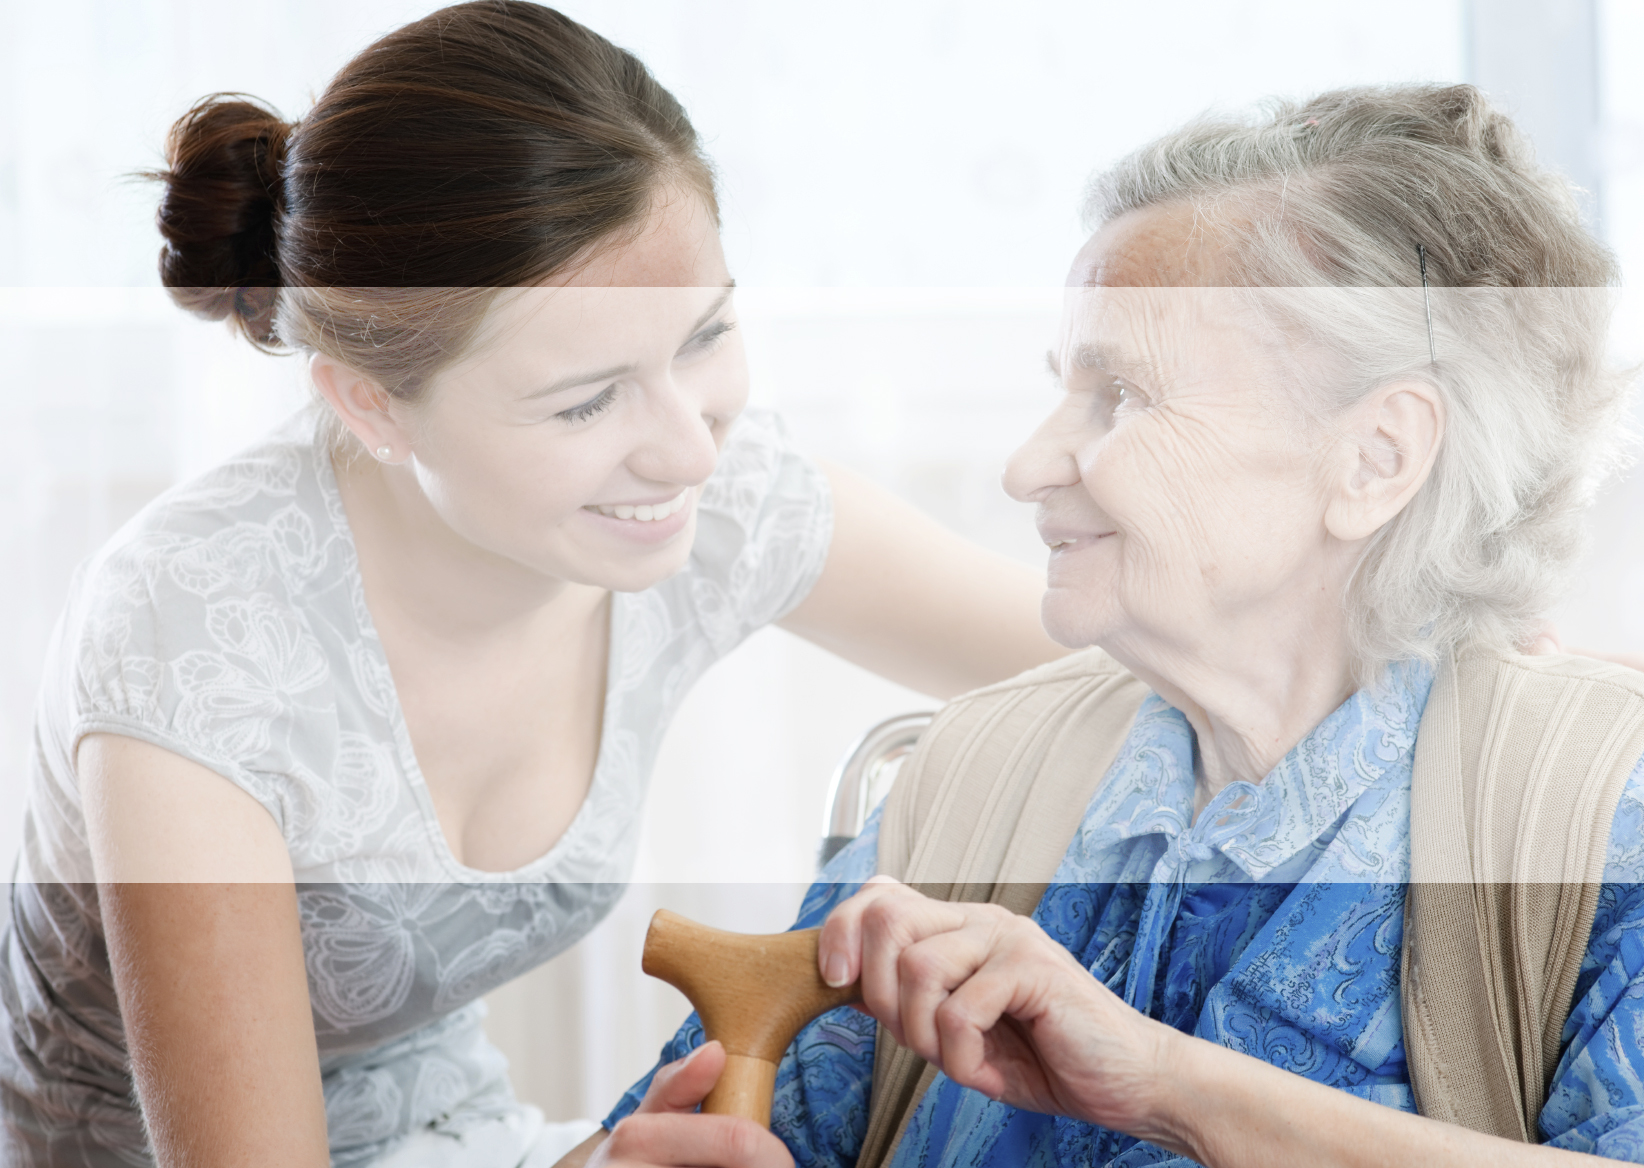
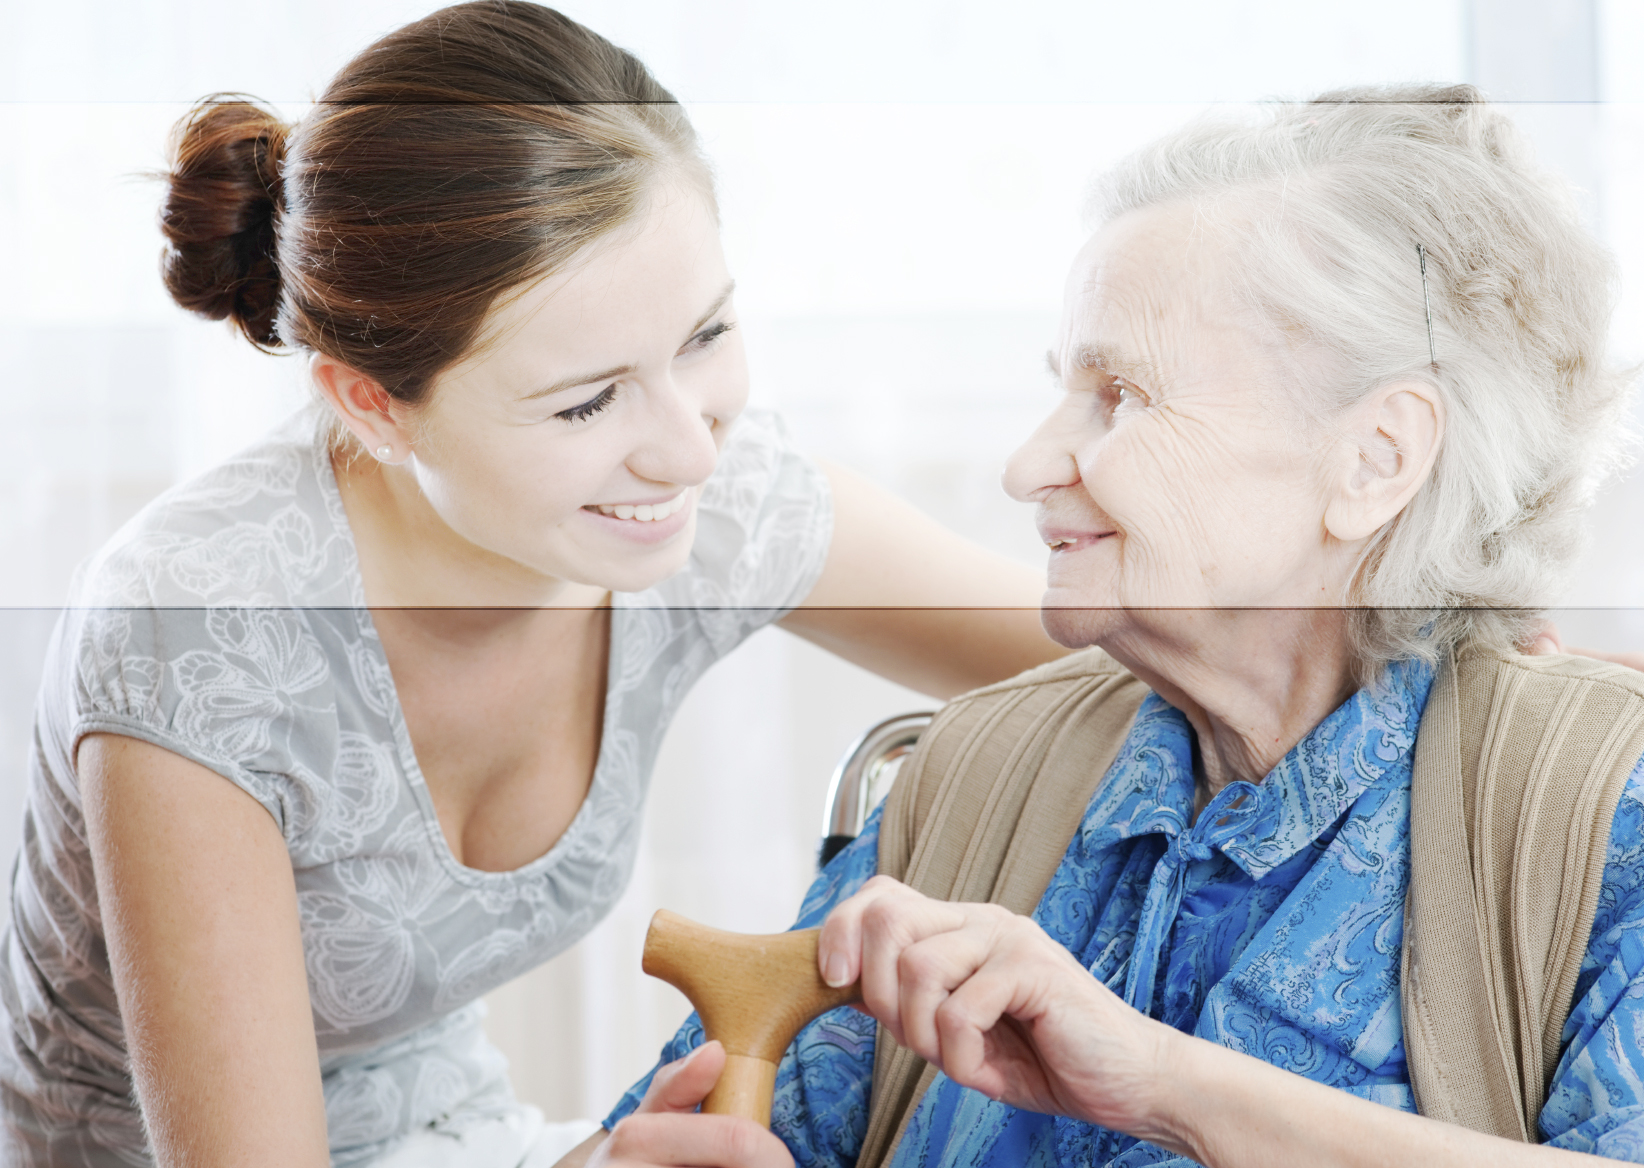
Revamped welcome page.

diff --git a/app/assets/stylesheets/application.css b/app/assets/stylesheets/application.css
@@ -81,7 +81,8 @@ input#query {
 }
 
 .search-query:focus + button {
-  z-index: 3;   
+  z-index: 3;
+}
 
 .lightbox-bg {
    position: absolute;
@@ -90,15 +91,26 @@ input#query {
    width: 100%;
    height: 100%;
    background: rgba(0, 0, 0, 0.5);
+   display: none;
 }
 
 .lightbox-box {
 	position: absolute;
 	background-color: white;
 	box-shadow: 0px 0px 20px #000;
+	display: none;
 }
 
-.hide {
-	display: none;
+#welcome-page {
+	position:absolute;
+	margin-left:-100px;
+	margin-top:-100px;
+	background-image:url('welcome.jpg');
+	background-size:100%;
+	height:700px;
+	width:105%;
+}
 
+#welcome-content {
+	margin-left:0px;
 }
